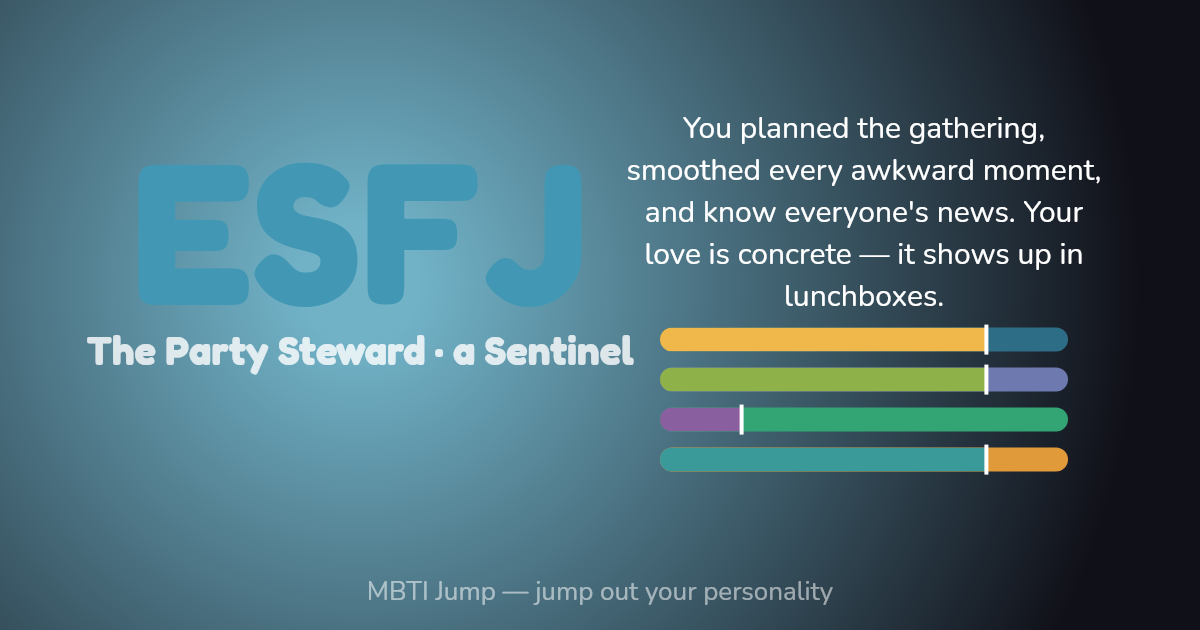
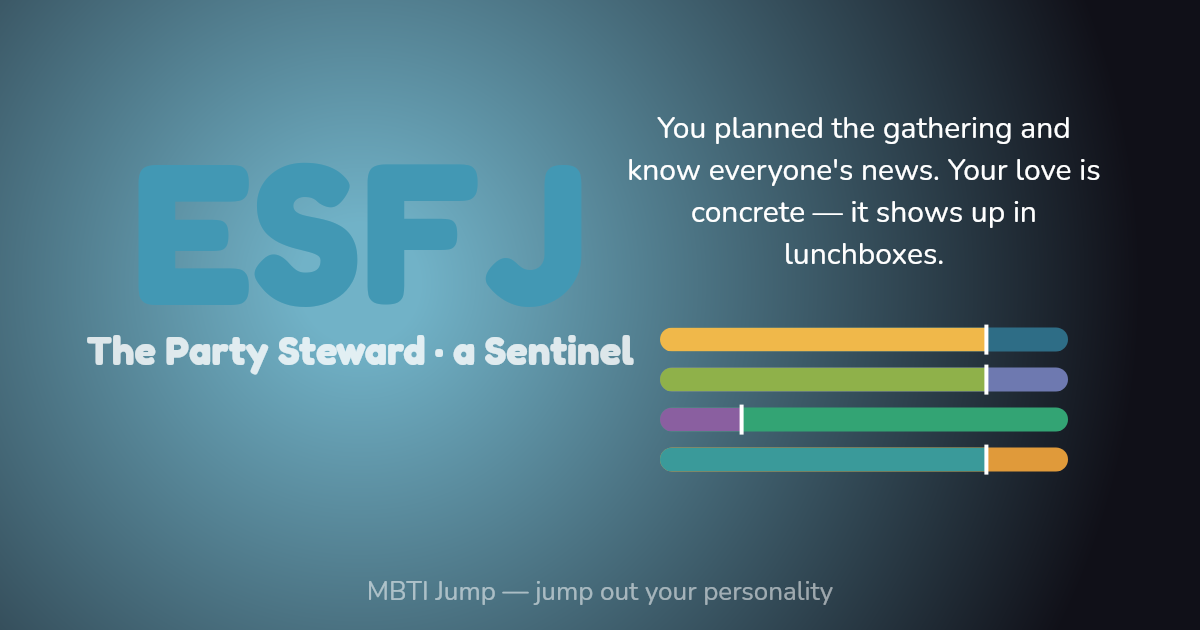
fix: invited layout — de-space zh ×, trim en ESFJ desc, count-agnostic en/es pair copy, +nudges

Changed region(s): [[0.5242, 0.181, 0.925, 0.3619], [0.5242, 0.3921, 0.8942, 0.4222], [0.6475, 0.4524, 0.8017, 0.4825]]

diff --git a/src/i18n/strings/en.ts b/src/i18n/strings/en.ts
@@ -43,16 +43,16 @@ export const EN = {
   'invite.greeting': 'Your friend is {0} — jump in and see how you two match!',
 
   // --- Group pairing copy ---
-  'pair.explorer_explorer': 'Explorer × Explorer — two "let\'s just go" people covering each other on every adventure ({0} letters in common)',
-  'pair.explorer_diplomat': 'Diplomat × Explorer — ideals plus action; the world should be a little worried ({0} letters in common)',
-  'pair.explorer_analyst': 'Analyst × Explorer — deep thinker meets fast mover, almost comically complementary ({0} letters in common)',
-  'pair.explorer_sentinel': 'Sentinel × Explorer — one hits the gas, one holds the wheel; perfectly balanced ({0} letters in common)',
-  'pair.diplomat_diplomat': 'Diplomat × Diplomat — two warm hearts talking till sunrise and still not done ({0} letters in common)',
-  'pair.diplomat_analyst': 'Diplomat × Analyst — the dreamer dreams it, the logician makes it real ({0} letters in common)',
-  'pair.diplomat_sentinel': 'Diplomat × Sentinel — one sketches the blueprint, one lays the foundation; steady tenderness ({0} letters in common)',
-  'pair.analyst_analyst': 'Analyst × Analyst — happily out-thinking each other; even your fights sound like seminars ({0} letters in common)',
-  'pair.analyst_sentinel': 'Analyst × Sentinel — strategy meets execution, the ultimate get-it-done duo ({0} letters in common)',
-  'pair.sentinel_sentinel': 'Sentinel × Sentinel — reliable meets reliable; even your calendars line up ({0} letters in common)',
+  'pair.explorer_explorer': 'Explorer × Explorer — two "let\'s just go" people covering each other on every adventure ({0} of 4 letters in common)',
+  'pair.explorer_diplomat': 'Diplomat × Explorer — ideals plus action; the world should be a little worried ({0} of 4 letters in common)',
+  'pair.explorer_analyst': 'Analyst × Explorer — deep thinker meets fast mover, almost comically complementary ({0} of 4 letters in common)',
+  'pair.explorer_sentinel': 'Sentinel × Explorer — one hits the gas, one holds the wheel; perfectly balanced ({0} of 4 letters in common)',
+  'pair.diplomat_diplomat': 'Diplomat × Diplomat — two warm hearts talking till sunrise and still not done ({0} of 4 letters in common)',
+  'pair.diplomat_analyst': 'Diplomat × Analyst — the dreamer dreams it, the logician makes it real ({0} of 4 letters in common)',
+  'pair.diplomat_sentinel': 'Diplomat × Sentinel — one sketches the blueprint, one lays the foundation; steady tenderness ({0} of 4 letters in common)',
+  'pair.analyst_analyst': 'Analyst × Analyst — happily out-thinking each other; even your fights sound like seminars ({0} of 4 letters in common)',
+  'pair.analyst_sentinel': 'Analyst × Sentinel — strategy meets execution, the ultimate get-it-done duo ({0} of 4 letters in common)',
+  'pair.sentinel_sentinel': 'Sentinel × Sentinel — reliable meets reliable; even your calendars line up ({0} of 4 letters in common)',
 
   'trend.title': 'Your Trends',
   'trend.cta': 'Trends',
@@ -117,7 +117,7 @@ export const EN = {
   'type.ESTJ.name': 'The Order Captain',
   'type.ESTJ.desc': 'Chaos makes your hands itch, and meetings without conclusions cause physical discomfort. The world runs on time thanks to you.',
   'type.ESFJ.name': 'The Party Steward',
-  'type.ESFJ.desc': 'You planned the gathering, smoothed every awkward moment, and know everyone\'s news. Your love is concrete — it shows up in lunchboxes.',
+  'type.ESFJ.desc': 'You planned the gathering and know everyone\'s news. Your love is concrete — it shows up in lunchboxes.',
   'type.ISTP.name': 'The Cool-hand Tinkerer',
   'type.ISTP.desc': "Few words, clever hands — if it's broken, you take it apart first and ask later. Looks like you're not listening; you heard everything.",
   'type.ISFP.name': 'The Quiet Artist',

diff --git a/src/i18n/strings/es.ts b/src/i18n/strings/es.ts
@@ -39,16 +39,16 @@ export const ES: Record<StringKey, string> = {
   'invite.greeting': 'Tu amigo es {0}: ¡mide vuestra compatibilidad!',
 
   // --- 族群配對文案（needs-review: AI 草稿，待母語校稿） ---
-  'pair.explorer_explorer': 'Explorador × Explorador — dos personas de "vámonos ya", cubriéndose en cada aventura ({0} letras en común)',
-  'pair.explorer_diplomat': 'Diplomático × Explorador — ideales más acción: el mundo debería preocuparse un poco ({0} letras en común)',
-  'pair.explorer_analyst': 'Analista × Explorador — el que piensa hondo y el que corre rápido, cómicamente complementarios ({0} letras en común)',
-  'pair.explorer_sentinel': 'Centinela × Explorador — uno pisa el acelerador, otro sujeta el volante: equilibrio perfecto ({0} letras en común)',
-  'pair.diplomat_diplomat': 'Diplomático × Diplomático — dos corazones cálidos charlando hasta el amanecer ({0} letras en común)',
-  'pair.diplomat_analyst': 'Diplomático × Analista — el soñador lo sueña, el lógico lo hace realidad ({0} letras en común)',
-  'pair.diplomat_sentinel': 'Diplomático × Centinela — uno dibuja el plano, otro pone los cimientos: ternura estable ({0} letras en común)',
-  'pair.analyst_analyst': 'Analista × Analista — compitiendo en ingenio con gusto; hasta sus peleas parecen seminarios ({0} letras en común)',
-  'pair.analyst_sentinel': 'Analista × Centinela — estrategia más ejecución, el dúo que lo consigue todo ({0} letras en común)',
-  'pair.sentinel_sentinel': 'Centinela × Centinela — fiable con fiable; hasta sus agendas coinciden ({0} letras en común)',
+  'pair.explorer_explorer': 'Explorador × Explorador — dos personas de "vámonos ya", cubriéndose en cada aventura ({0} de 4 letras en común)',
+  'pair.explorer_diplomat': 'Diplomático × Explorador — ideales más acción: el mundo debería preocuparse un poco ({0} de 4 letras en común)',
+  'pair.explorer_analyst': 'Analista × Explorador — el que piensa hondo y el que corre rápido, cómicamente complementarios ({0} de 4 letras en común)',
+  'pair.explorer_sentinel': 'Centinela × Explorador — uno pisa el acelerador, otro sujeta el volante: equilibrio perfecto ({0} de 4 letras en común)',
+  'pair.diplomat_diplomat': 'Diplomático × Diplomático — dos corazones cálidos charlando hasta el amanecer ({0} de 4 letras en común)',
+  'pair.diplomat_analyst': 'Diplomático × Analista — el soñador lo sueña, el lógico lo hace realidad ({0} de 4 letras en común)',
+  'pair.diplomat_sentinel': 'Diplomático × Centinela — uno dibuja el plano, otro pone los cimientos: ternura estable ({0} de 4 letras en común)',
+  'pair.analyst_analyst': 'Analista × Analista — compitiendo en ingenio con gusto; hasta sus peleas parecen seminarios ({0} de 4 letras en común)',
+  'pair.analyst_sentinel': 'Analista × Centinela — estrategia más ejecución, el dúo que lo consigue todo ({0} de 4 letras en común)',
+  'pair.sentinel_sentinel': 'Centinela × Centinela — fiable con fiable; hasta sus agendas coinciden ({0} de 4 letras en común)',
 
   'trend.title': 'Tus tendencias',
   'trend.cta': 'Tendencias',

diff --git a/src/i18n/strings/zh-Hans.ts b/src/i18n/strings/zh-Hans.ts
@@ -38,16 +38,16 @@ export const ZH_HANS: Record<StringKey, string> = {
   'invite.greeting': '你的朋友是 {0}，测测你们合不合！',
 
   // --- 族群配对文案 ---
-  'pair.explorer_explorer': '探险家 × 探险家——说走就走的两个人，冒险路上互相接应（你们有 {0} 个字母相同）',
-  'pair.explorer_diplomat': '外交官 × 探险家——理想加上行动力，随时可能改变世界（你们有 {0} 个字母相同）',
-  'pair.explorer_analyst': '分析师 × 探险家——想得深遇上跑得快，互补到有点好笑（你们有 {0} 个字母相同）',
-  'pair.explorer_sentinel': '守护者 × 探险家——一个踩油门、一个握方向盘，刚好平衡（你们有 {0} 个字母相同）',
-  'pair.diplomat_diplomat': '外交官 × 外交官——两颗真心互相取暖，聊到天亮都嫌不够（你们有 {0} 个字母相同）',
-  'pair.diplomat_analyst': '外交官 × 分析师——理想派负责做梦，逻辑派负责让梦成真（你们有 {0} 个字母相同）',
-  'pair.diplomat_sentinel': '外交官 × 守护者——一个画蓝图、一个盖地基，稳稳的温柔（你们有 {0} 个字母相同）',
-  'pair.analyst_analyst': '分析师 × 分析师——斗智斗得很开心，吵架都像学术研讨（你们有 {0} 个字母相同）',
-  'pair.analyst_sentinel': '分析师 × 守护者——策略遇上执行，最强的落地组合（你们有 {0} 个字母相同）',
-  'pair.sentinel_sentinel': '守护者 × 守护者——可靠遇上可靠，行程表都对得整整齐齐（你们有 {0} 个字母相同）',
+  'pair.explorer_explorer': '探险家×探险家——说走就走的两个人，冒险路上互相接应（你们有 {0} 个字母相同）',
+  'pair.explorer_diplomat': '外交官×探险家——理想加上行动力，随时可能改变世界（你们有 {0} 个字母相同）',
+  'pair.explorer_analyst': '分析师×探险家——想得深遇上跑得快，互补到有点好笑（你们有 {0} 个字母相同）',
+  'pair.explorer_sentinel': '守护者×探险家——一个踩油门、一个握方向盘，刚好平衡（你们有 {0} 个字母相同）',
+  'pair.diplomat_diplomat': '外交官×外交官——两颗真心互相取暖，聊到天亮都嫌不够（你们有 {0} 个字母相同）',
+  'pair.diplomat_analyst': '外交官×分析师——理想派负责做梦，逻辑派负责让梦成真（你们有 {0} 个字母相同）',
+  'pair.diplomat_sentinel': '外交官×守护者——一个画蓝图、一个盖地基，稳稳的温柔（你们有 {0} 个字母相同）',
+  'pair.analyst_analyst': '分析师×分析师——斗智斗得很开心，吵架都像学术研讨（你们有 {0} 个字母相同）',
+  'pair.analyst_sentinel': '分析师×守护者——策略遇上执行，最强的落地组合（你们有 {0} 个字母相同）',
+  'pair.sentinel_sentinel': '守护者×守护者——可靠遇上可靠，行程表都对得整整齐齐（你们有 {0} 个字母相同）',
 
   'trend.title': '你的趋势',
   'trend.cta': '趋势',

diff --git a/src/i18n/strings/zh-Hant.ts b/src/i18n/strings/zh-Hant.ts
@@ -38,16 +38,16 @@ export const ZH_HANT: Record<StringKey, string> = {
   'invite.greeting': '你的朋友是 {0}，測測你們合不合！',
 
   // --- 族群配對文案 ---
-  'pair.explorer_explorer': '探險家 × 探險家——說走就走的兩個人，冒險路上互相接應（你們有 {0} 個字母相同）',
-  'pair.explorer_diplomat': '外交官 × 探險家——理想加上行動力，隨時可能改變世界（你們有 {0} 個字母相同）',
-  'pair.explorer_analyst': '分析師 × 探險家——想得深遇上跑得快，互補到有點好笑（你們有 {0} 個字母相同）',
-  'pair.explorer_sentinel': '守護者 × 探險家——一個踩油門、一個握方向盤，剛好平衡（你們有 {0} 個字母相同）',
-  'pair.diplomat_diplomat': '外交官 × 外交官——兩顆真心互相取暖，聊到天亮都嫌不夠（你們有 {0} 個字母相同）',
-  'pair.diplomat_analyst': '外交官 × 分析師——理想派負責作夢，邏輯派負責讓夢成真（你們有 {0} 個字母相同）',
-  'pair.diplomat_sentinel': '外交官 × 守護者——一個畫藍圖、一個蓋地基，穩穩的溫柔（你們有 {0} 個字母相同）',
-  'pair.analyst_analyst': '分析師 × 分析師——鬥智鬥得很開心，吵架都像學術研討（你們有 {0} 個字母相同）',
-  'pair.analyst_sentinel': '分析師 × 守護者——策略遇上執行，最強的落地組合（你們有 {0} 個字母相同）',
-  'pair.sentinel_sentinel': '守護者 × 守護者——可靠遇上可靠，行程表都對得整整齊齊（你們有 {0} 個字母相同）',
+  'pair.explorer_explorer': '探險家×探險家——說走就走的兩個人，冒險路上互相接應（你們有 {0} 個字母相同）',
+  'pair.explorer_diplomat': '外交官×探險家——理想加上行動力，隨時可能改變世界（你們有 {0} 個字母相同）',
+  'pair.explorer_analyst': '分析師×探險家——想得深遇上跑得快，互補到有點好笑（你們有 {0} 個字母相同）',
+  'pair.explorer_sentinel': '守護者×探險家——一個踩油門、一個握方向盤，剛好平衡（你們有 {0} 個字母相同）',
+  'pair.diplomat_diplomat': '外交官×外交官——兩顆真心互相取暖，聊到天亮都嫌不夠（你們有 {0} 個字母相同）',
+  'pair.diplomat_analyst': '外交官×分析師——理想派負責作夢，邏輯派負責讓夢成真（你們有 {0} 個字母相同）',
+  'pair.diplomat_sentinel': '外交官×守護者——一個畫藍圖、一個蓋地基，穩穩的溫柔（你們有 {0} 個字母相同）',
+  'pair.analyst_analyst': '分析師×分析師——鬥智鬥得很開心，吵架都像學術研討（你們有 {0} 個字母相同）',
+  'pair.analyst_sentinel': '分析師×守護者——策略遇上執行，最強的落地組合（你們有 {0} 個字母相同）',
+  'pair.sentinel_sentinel': '守護者×守護者——可靠遇上可靠，行程表都對得整整齊齊（你們有 {0} 個字母相同）',
 
   'trend.title': '你的趨勢',
   'trend.cta': '趨勢',

diff --git a/src/scenes/ResultScene.ts b/src/scenes/ResultScene.ts
@@ -156,7 +156,7 @@ export class ResultScene extends Phaser.Scene {
     const friend = getInvite();
     if (friend) {
       this.add
-        .text(cx, 522, tf(pairKey(groupOf(type), groupOf(friend)), [sharedLetters(type, friend)]), {
+        .text(cx, 526, tf(pairKey(groupOf(type), groupOf(friend)), [sharedLetters(type, friend)]), {
           fontSize: '14px',
           color: '#ffffff',
           align: 'center',
@@ -164,10 +164,10 @@ export class ResultScene extends Phaser.Scene {
           fontFamily: 'Nunito, system-ui, sans-serif',
         })
         .setOrigin(0.5);
-      this.drawCompareRow(cx, 552, type, friend);
+      this.drawCompareRow(cx, 560, type, friend);
     }
 
-    const btnY = friend ? [595, 658, 718] : [585, 650, 712];
+    const btnY = friend ? [600, 662, 722] : [585, 650, 712];
 
     const shareBtn = new Button(this, cx, btnY[0], t('share.action'), {
       width: 240,
